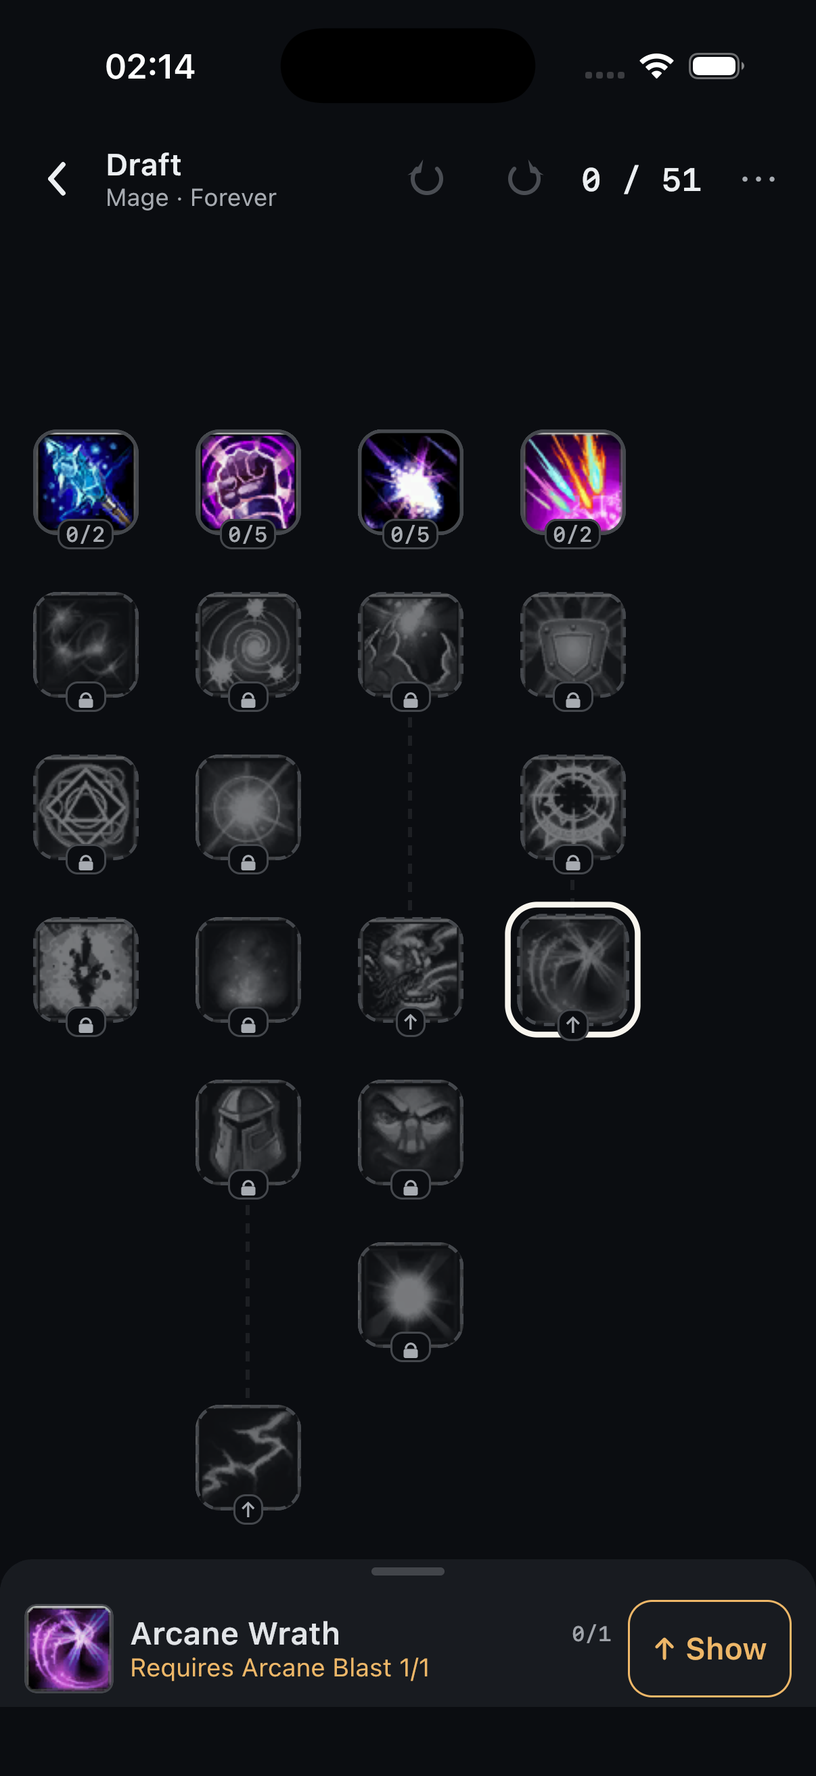
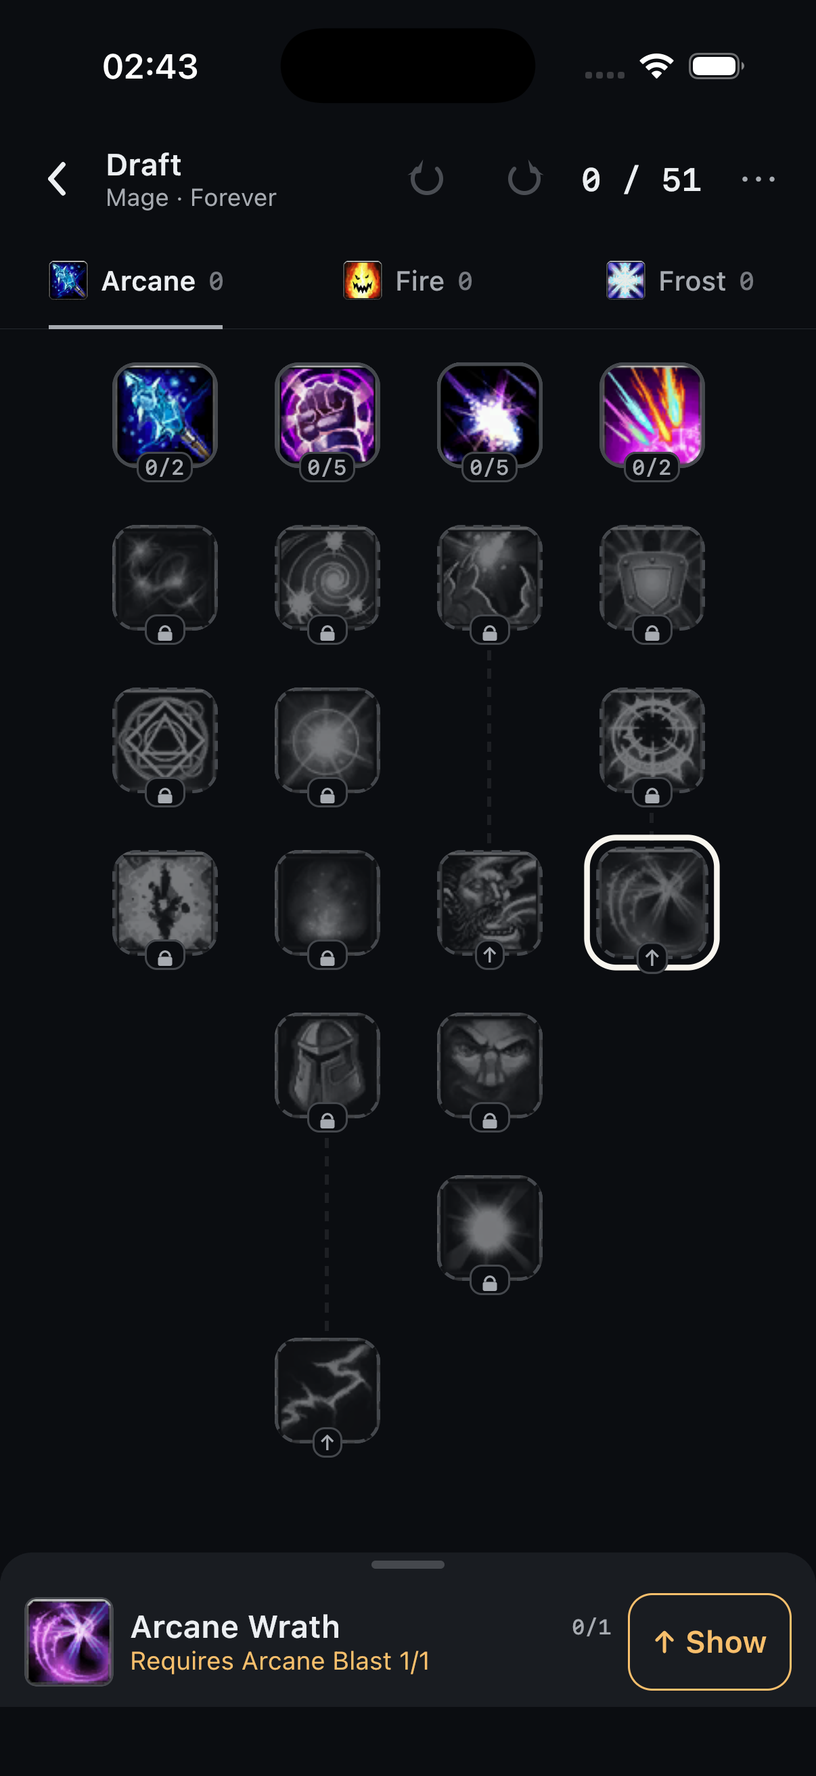
docs: Arcane Wrath in the Arcane tab (M5.DATA.4)
Rewrites the Mage anomaly: cause in the client rows, the layout rule and its
fail-closed edges, literal gates, why Wowhead's 15-point requirement is not
evidence, the old classic TalentTab/Talent tables, and new simulator
screenshots of the Arcane tab.

diff --git a/docs/forever-dataset.md b/docs/forever-dataset.md
@@ -267,11 +267,10 @@ python -m talent_data localization fetch|report|normalize|check --build 1.60.1.7
 python scripts/extract_fixtures.py --build 1.60.1.70450 --classes all   # + --tooltips, --localization ruRU
 ```
 
-* 9 classes, 469 nodes, **0 errors, 49 warnings**: the 12 investigated warnings of the
-  reference baseline (same codes, nodes and counts) plus **37 on Mage**
-  (`SECTIONS_UNRESOLVED` ×1, `OFF_GRID_NODE` ×36), all from one cause — investigated
-  [below](#the-mage-tree-has-no-derivable-tabs-sections_unresolved-160170425) and published
-  by owner decision. The manifest re-validates.
+* 9 classes, 469 nodes, **0 errors, 13 warnings**: the 12 investigated warnings of the
+  reference baseline (same codes, nodes and counts) plus **one on Mage**,
+  `SECTION_NOT_GATE_COUNTED` for Arcane Wrath — investigated
+  [below](#arcane-wrath-a-node-no-gate-counts-section_not_gate_counted-160170425). The manifest re-validates.
 * Real DB2, tooltip-table and enUS/ruRU fixtures of 70450 are committed
   (`tests/fixtures/{db2,tooltips,localization}/forever/1.60.1.70450/`);
   `tests/unit/test_product_build.py` regenerates the documents, icon sidecars, descriptions
@@ -286,7 +285,7 @@ python scripts/extract_fixtures.py --build 1.60.1.70450 --classes all   # + --to
 | Rogue | 1111 | 53 | 8 | 139 | 3 | 51 | 0 | 1 × INCOMPLETE_RANK_CURVE, 1 × UNRESOLVED_CONDITION |
 | Priest | 1114 | **53** | 8 | 153 | 3 | 51 | 0 | 1 × OFF_GRID_NODE, 1 × DUPLICATE_SPELL_IDENTITY |
 | Shaman | 1082 | 50 | 7 | 148 | 3 | 51 | 0 | — |
-| Mage | 1112 | **55** | **7** | **148** | **0** | 51 | 0 | **1 × SECTIONS_UNRESOLVED, 36 × OFF_GRID_NODE** |
+| Mage | 1112 | **55** | **7** | **148** | 3 | 51 | 0 | **1 × SECTION_NOT_GATE_COUNTED** |
 | Warlock | 1116 | 52 | 8 | **146** | 3 | 51 | 0 | 2 × OFF_GRID_NODE |
 | Druid | 1089 | 52 | 11 | 148 | 3 | 51 | 0 | — |
 
@@ -296,13 +295,12 @@ unchanged.
 ### What changed 70374 → 70450
 
 `artifacts/diff/forever-all-1.60.1.70374-1.60.1.70450.json` (+ one file per class):
-**1 added, 1 removed, 98 changed nodes** — 54 of the Mage changes are `sectionChanged`
-(every Mage node lost its section, see below).
+**1 added, 1 removed, 65 changed nodes**.
 
 * **Mage** (the Arcane layout):
-  * added: **Arcane Wrath** 113627 (max 1) at row 3, column 3 of the Arcane columns —
+  * added: **Arcane Wrath** 113627 (max 1) at row 3, column 3 of the Arcane tab —
     Missile Barrage's former cell — with a sufficient prerequisite on Arcane Blast and **no
-    points gate**;
+    points gate** ([below](#arcane-wrath-a-node-no-gate-counts-section_not_gate_counted-160170425));
   * **Missile Barrage** 105802 moved row 3 → row 0, lost its 15-point gate, max rank 1 → 2
     (20/40 % now resolved per rank); the 5/10/15-point Arcane gates count it (3 → 4, 7 → 8,
     10 → 11 nodes);
@@ -343,45 +341,48 @@ Improved Fade on 70374, Dark Inspiration on 70450). A saved build always opens o
 build and is never migrated (`test_a_previous_product_build_*`,
 `DatasetVersionCompatibilityTest`).
 
-### The Mage tree has no derivable tabs (SECTIONS_UNRESOLVED, 1.60.1.70425+)
+### Arcane Wrath: a node no gate counts (SECTION_NOT_GATE_COUNTED, 1.60.1.70425+)
 
 **Cause (client rows, `tests/fixtures/db2/forever/1.60.1.70450/mage/`).** The normalizer
-derives the three classic tabs from the node groups the tier gates count, and accepts them
-only if they partition the tree (§ *Known unresolved semantics*: tab names do not exist in
-client data either). Arcane Wrath 113627 has four `TraitNodeGroupXTraitNode` rows — groups
-12862, 12863, 12864, 12865 (`_Index` 2, 12, 12, 12) — and **each of these groups has no other
-member and no condition**: no `TraitCond`, `TraitNodeGroupXTraitCond` or
+derives the three classic tabs from the node groups the tier gates count (tab names do not
+exist in the trait tables). Arcane Wrath 113627 has four `TraitNodeGroupXTraitNode` rows —
+groups 12862, 12863, 12864, 12865 (`_Index` 2, 12, 12, 12) — and **each of these groups has
+no other member and no condition**: no `TraitCond`, `TraitNodeGroupXTraitCond` or
 `TraitNodeXTraitCond` row refers to them or to the node. Every other Mage node keeps its
-70374 memberships (`TraitCond` and `TraitNodeGroupXTraitCond` are byte-identical to 70374's).
-So the three maximal gate groups (18 Arcane, 17 Fire, 19 Frost nodes) are disjoint and cover
-every node **except** Arcane Wrath; the partition fails and `sections` stays empty, as the
-contract allows. A row-3 peer such as Arcane Meditation 105803 is in four groups too — its
-row group 11586 and the cumulative 30/25/20-point groups 11582/12730/12731, `_Index`
-3/13/13/13 — the same shape as Arcane Wrath's rows, but with the shared group ids.
+70374 memberships (`TraitCond` and `TraitNodeGroupXTraitCond` are byte-identical to 70374's),
+so the three maximal gate groups (18 Arcane, 17 Fire, 19 Frost nodes) are disjoint and cover
+every node except Arcane Wrath. A row-3 peer such as Arcane Meditation 105803 is in four
+groups too — its row group 11586 and the cumulative 30/25/20-point groups
+11582/12730/12731, `_Index` 3/13/13/13 — the same shape as Arcane Wrath's rows, but with the
+shared group ids. Whether Arcane Wrath's rows are an authoring slip or intended cannot be
+decided from DB2 rows, and no 70425/70450 client was observed.
 
-**Consequences, all mechanical and pinned by tests.**
+**Tab: by its column (owner decision, 2026-10-17).** Arcane Wrath stands in the Arcane
+columns (x = 2820; the Arcane group spans x 1020…2820, Fire 5020…6820, Frost 9080…10880), the
+panel the client draws it in, and Wowhead's Forever calculator — datamined from the same
+tables (spell 1326079, definition 145958) — lists it in the Arcane tree. The normalizer
+therefore resolves tabs as before and then places **a node that no gate counts** in the
+**one** tab whose column range contains its raw x
+(`normalization.normalizer._resolve_sections`). The rule is fail-closed: an x inside no
+tab's range or inside more than one leaves the tree without sections
+(`SECTIONS_UNRESOLVED`), and nothing else (prerequisites, names) is consulted. It changes no
+earlier build (every node of 70009…70374 is counted by a gate; their documents regenerate
+byte for byte). The validator flags every such node as **`SECTION_NOT_GATE_COUNTED`** — a
+new, investigated warning code — so the placement is never mistaken for a gate fact.
 
-* `SECTIONS_UNRESOLVED` ×1 and no node has a `sectionIndex`.
-* `OFF_GRID_NODE` ×36: without tabs the grid is fitted over the whole tree instead of per
-  tab, so the 18 Arcane nodes and Arcane Wrath sit 260 units left of it and the 17 Fire
-  nodes 140 units right; the 19 Frost nodes land on it. Raw `x`/`y` stay authoritative.
-* The diff reports `sectionsChanged` 3 → 0 and `sectionChanged` on all 54 kept nodes.
-* Literal allocation semantics: Arcane Wrath has no unlock requirement (only its sufficient
-  prerequisite Arcane Blast, itself behind the 10-point Arcane gate), and its point counts
-  toward no Arcane gate. The engines implement exactly that; no rule was added for it.
-* The app shows the 70450 Mage tree on **one whole-tree canvas** — the existing fail-safe
-  `Unsectioned(NoSections)` path of `buildTalentTreeSections`: no tabs, no specialization
-  names, every node and connector on the canvas, no hit-target overlap at any zoom
-  (`TalentTreeSectionsTest`). Every other class and every older Mage tree keeps its tabs.
+**Gates stay literal.** Arcane Wrath has no unlock requirement (only its sufficient
+prerequisite Arcane Blast, itself behind the 10-point Arcane gate), and its point counts
+toward no Arcane gate; the engines read exactly that. Wowhead shows a 15-point requirement
+for it, but Wowhead's `requiredPoints` equals row × 5 for all 466 nodes it lists — the
+classic convention, not the client's condition rows (every other node agrees with the
+client gates) — so it is no evidence for a gate, and none is added. One visible consequence
+in the app: the Arcane tab's point counter sums the tab's nodes, so after taking Arcane Wrath
+it is one point above what the Arcane gates count.
 
-**What is not established.** Whether this is an authoring slip (the four rows look like
-memberships that were meant to point at the shared groups) or intended (an ungated talent
-outside the tab totals) cannot be decided from DB2 rows, and no 70425/70450 client was
-observed. The pipeline does not guess a section by geometry or flatten the rows into a gate.
-**Owner decision (2026-10-17):** publish 70450 as the client data stands. If a later build
-puts 113627 into the gate groups, the tabs return through the unchanged pipeline (and this
-expected warning set changes, failing `test_warnings_are_exactly_the_investigated_set` until
-it is reviewed).
+**Old classic tables.** The Forever client still ships `TalentTab` (Arcane 81 / Fire 41 /
+Frost 61, with names) and `Talent` (432 rows), but `Talent` is the classic layout: it covers
+351 of the 469 70450 nodes, none of the Forever-new talents, and places some kept ones
+differently, so it is no evidence for Arcane Wrath's tab either.
 
 ### Allocation compatibility
 
@@ -945,9 +946,9 @@ python scripts/extract_fixtures.py --build 1.60.1.70338 --classes all   # + --to
   the source proves the per-group/node/entry cost tables absent (present or unknown fails
   closed); still no cost field in schema v1.
 * Tab names (Arms/Fury/Protection…) do not exist in client data; `section.name` is null.
-  Since 1.60.1.70425 the Mage tree has no derivable tabs at all (Arcane Wrath is in no gate
-  group — [above](#the-mage-tree-has-no-derivable-tabs-sections_unresolved-160170425));
-  `sections` stays empty rather than guessed.
+  Since 1.60.1.70425 one node, Mage Arcane Wrath, is in no gate group; it joins the tab whose
+  columns contain it, flagged `SECTION_NOT_GATE_COUNTED`
+  ([above](#arcane-wrath-a-node-no-gate-counts-section_not_gate_counted-160170425)).
 * Tooltips stay raw templates in `talent-data.v1`; per-rank numbers exist for curve-backed
   effects only. Rendered descriptions (M5.V2) live in the `talent-tooltips.v1` sidecar.
 * Whether the mis-placed duplicate nodes (Hunter/Priest) are drawn by the client is

diff --git a/docs/mobile-architecture.md b/docs/mobile-architecture.md
@@ -334,15 +334,15 @@ entry is gone; the baseline Warrior loader remains as the tests' fixture.
     `TalentTreeSectionsResult.Unsectioned` reason: the screen then shows the
     whole tree on one canvas without tabs — nothing hidden or re-assigned.
     A tree that publishes no sections at all is `Unsectioned(NoSections)`;
-    the one real case is the Mage tree of the product dataset 1.60.1.70450
-    (M5.DATA.4: Arcane Wrath belongs to no gate group, so no tabs are
-    derivable — [forever-dataset.md](forever-dataset.md#the-mage-tree-has-no-derivable-tabs-sections_unresolved-160170425)),
-    which therefore opens on one whole-tree canvas with no tabs and no
-    specialization names; every other tree keeps its tabs
-    (`TalentTreeSectionsTest`, `TalentTreeSectionTabsUiTest`).
+    no bundled tree does. (M5.DATA.4: on 1.60.1.70450 the Mage talent
+    Arcane Wrath is counted by no gate; the dataset places it in the Arcane
+    tab by its column — [forever-dataset.md](forever-dataset.md#arcane-wrath-a-node-no-gate-counts-section_not_gate_counted-160170425) —
+    and `TalentTreeSectionsTest` / `TalentTreeSectionTabsUiTest` pin it
+    there.)
     `sectionSpentPoints` counts each tab's points with the allocation rules'
-    own `AllocationRules.pointsSpent` (the tier-gate count); for any valid
-    build the tabs add up to the header counter;
+    own `AllocationRules.pointsSpent` (the tier-gate count — except that a
+    rank in 70450's Arcane Wrath, which no gate counts, is in the Arcane tab's
+    total too); for any valid build the tabs add up to the header counter;
   - `TalentTreeSectionTabs` — one tab per section (first-talent icon, label,
     points; icons hidden under 360 dp or above 115 % font scale), equal
     widths while each keeps 72 dp, otherwise a scrolling row; one tap
@@ -1358,7 +1358,7 @@ descriptions of each, every one from its own client build:
 
 | Constant (`ui/library/BundledDatasets.kt`) | Client build | Role |
 | --- | --- | --- |
-| `PRODUCT_BUNDLE` | `1.60.1.70450` | The **product dataset** (M5.DATA.4): New Build lists its classes from this manifest and creates every new draft on it. Selected as the newest Forever build wago.tools listed on 2026-10-17 with `is_bgdl` explicitly `false` ([forever-dataset.md](forever-dataset.md#product-dataset-160170450-m5data4)) — not a claim that it is the build the live realms run. Its Mage tree publishes no sections and opens on one whole-tree canvas (see *M5.UX.1 section tabs*). |
+| `PRODUCT_BUNDLE` | `1.60.1.70450` | The **product dataset** (M5.DATA.4): New Build lists its classes from this manifest and creates every new draft on it. Selected as the newest Forever build wago.tools listed on 2026-10-17 with `is_bgdl` explicitly `false` ([forever-dataset.md](forever-dataset.md#product-dataset-160170450-m5data4)) — not a claim that it is the build the live realms run. Its Mage talent Arcane Wrath is counted by no gate and shown in the Arcane tab by its column (see *M5.UX.1 section tabs*). |
 | — | `1.60.1.70374` | The product dataset of M5.DATA.3. Kept bundled, byte-for-byte unchanged, so that builds saved on it open on it; no app code names it (desktop tests do, as `PREVIOUS_PRODUCT_BUNDLE`) — a saved record carries its own client build. |
 | — | `1.60.1.70338` | The product dataset of M5.DATA.2 — the same talent rows, icons and descriptions as 70374, but its own dataset identity. Kept bundled, byte-for-byte unchanged, for the builds saved on it (desktop tests: `BUNDLE_70338`). |
 | — | `1.60.1.70245` | The product dataset of M5.DATA. Kept bundled, byte-for-byte unchanged, for the builds saved on it (desktop tests: `BUNDLE_70245`). |
@@ -1401,7 +1401,7 @@ design (each build ships the icons of its own client files).
 asset read recorded to prove which build answered): New Build lists 70450; new Druid and
 Warrior drafts are created and open on 70450 (the reworked Warrior tree: Gore Drinker, Iron
 Will, Furious Precision with their own icons and descriptions); a new Mage draft opens on
-70450's tree without sections (55 nodes, Arcane Wrath with its own icon); a 70009 Druid
+70450's tree with Arcane Wrath in the Arcane tab (55 nodes; its own icon); a 70009 Druid
 build with node 104951 (King of the Jungle) at 3/3 opens on 70009 unchanged and is invalid
 on the product dataset; a 70245 Warrior build with Toughness 5/5 opens on 70245 unchanged
 and is invalid on the product dataset; a 70245 Boundless Rage 3/3 build validates on the
@@ -1413,7 +1413,7 @@ builds resolve their own datasets; unbundled builds (70170, 70334, 70425) fail t
 read nothing else. `ProductDatasetContractTest` (shared JVM): the committed 70450
 documents, manifest, visuals and tooltips pass the strict readers and repository identity
 checks, the Kotlin engine supports them exactly like 70009 (only Rogue Venom unresolved,
-the sectionless Mage tree included), and 70374's sidecars placed under 70450 fail with a
+Mage's Arcane Wrath included), and 70374's sidecars placed under 70450 fail with a
 typed `BuildMismatch`.
 `BundledBaselineTest` loads every bundle through the real Compose resource pipeline.
 

diff --git a/README.md b/README.md
@@ -29,8 +29,8 @@ python scripts/check_product_freshness.py     # JSON on stdout; exit 0 CURRENT, 
 python -m talent_data fetch --game forever --build 1.60.1.70450
 python -m talent_data normalize --game forever --build 1.60.1.70450 --class all
 python -m talent_data diff --game forever --class all --from 1.60.1.70374 --to 1.60.1.70450
-# -> 9 classes, 0 errors, 49 warnings (the 12 investigated ones + 37 on Mage, whose tree
-#    publishes no sections); 1 added / 1 removed / 98 changed
+# -> 9 classes, 0 errors, 13 warnings (the 12 investigated ones + SECTION_NOT_GATE_COUNTED
+#    for Mage Arcane Wrath); 1 added / 1 removed / 65 changed
 #    (the same commands with 1.60.1.70374 / --from 1.60.1.70338 reproduce M5.DATA.3's)
 
 # Reproduce the verified reference baseline
@@ -55,8 +55,8 @@ baseline**: the live allocation evidence and the M2 conformance vectors are pinn
 and builds saved on it keep opening on it. Each is committed with its own icons and
 descriptions and bundled in the app. None is a claim about the build the live realms run
 (wago.tools cannot say); `scripts/check_product_freshness.py` reports whether a newer
-publishable build exists. Selection evidence, the 70374 → 70450 diff, the Mage tree that
-publishes no sections, and the validity limits:
+publishable build exists. Selection evidence, the 70374 → 70450 diff, the Mage talent
+Arcane Wrath that no gate counts, and the validity limits:
 [docs/forever-dataset.md](docs/forever-dataset.md#product-dataset-160170450-m5data4).
 Commands below that name `1.60.1.70009` reproduce or check the reference baseline; the
 same commands with `1.60.1.70450` do it for the product dataset.
@@ -215,8 +215,7 @@ rank, CURRENT / NEXT RANK, rank 1 as the prospective effect) from a strict
 [docs/mobile-architecture.md](docs/mobile-architecture.md#talent-descriptions-m5v2).
 **M5.DATA / M5.DATA.2 / M5.DATA.3 / M5.DATA.4** bundle the product dataset 1.60.1.70450
 next to the unchanged 1.60.1.70374, 1.60.1.70338 and 1.60.1.70245 (earlier product
-datasets) and 1.60.1.70009 (reference baseline): New Build creates drafts on 70450 (its
-Mage tree, which publishes no sections, opens on one whole-tree canvas without tabs), every
+datasets) and 1.60.1.70009 (reference baseline): New Build creates drafts on 70450, every
 saved build opens on its own recorded build (no migration, even where two builds carry
 identical talent rows), an unbundled build fails with a typed error — see
 [docs/mobile-architecture.md](docs/mobile-architecture.md#bundled-datasets-product-and-reference-m5data).

diff --git a/docs/release/data4-evidence/README.md b/docs/release/data4-evidence/README.md
@@ -20,9 +20,9 @@ the live realms run. The RC.3 re-check within 24 h of the tag is still required.
 
 | Check | Result |
 | --- | --- |
-| `ruff check .` / `ruff format --check .` | PASS / 207 files formatted |
+| `ruff check .` / `ruff format --check .` | PASS / PASS |
 | `mypy` | PASS (72 source files) |
-| `pytest` | 1183 passed, 11 deselected |
+| `pytest` | 1185 passed, 11 deselected |
 | `pytest -m integration` (live wago.tools) | 11 passed |
 | `manifest --expect-complete`, `visuals check`, `tooltips check`, `localization check` × 5 bundled builds | all PASS |
 | `allocation replay --build 1.60.1.70009 --all` | 53/53 |
@@ -37,7 +37,7 @@ the live realms run. The RC.3 re-check within 24 h of the tag is still required.
 | `:composeApp:linkDebugFrameworkIosSimulatorArm64` | PASS |
 | `iosApp` simulator `xcodebuild` (Debug, `CODE_SIGNING_ALLOWED=NO`) | BUILD SUCCEEDED |
 | `:composeApp:assembleDebug` / `:composeApp:assembleRelease` | PASS / PASS (release unsigned; signing unchanged) |
-| `:composeApp:lintRelease` | PASS: 0 errors, 9 warnings — the same 9 pre-existing warnings as M5.RC.2b |
+| `:composeApp:lintRelease` (analysis rerun) | PASS: 0 errors, 9 warnings — the same 9 pre-existing warnings as M5.RC.2b |
 
 ## iOS simulator (iPhone 17 Pro, iOS 26.4)
 
@@ -48,8 +48,8 @@ Debug build of the M5.DATA.4 branch, installed over the existing app — its sav
 | [01](ios-simulator/01-home-existing-builds.png) | the four builds saved before the refresh, listed with their points |
 | [02](ios-simulator/02-saved-paladin-51-opens.png) | a saved Paladin 51/51 build opens unchanged (Holy 15 / Protection 5 / Retribution 31) |
 | [03](ios-simulator/03-new-build-nine-classes.png) | New Build lists all nine classes of the product manifest ("talent data 1.60.1") |
-| [04](ios-simulator/04-mage-70450-one-canvas.png) | a new Mage build on 70450: one whole-tree canvas, no tabs (Missile Barrage now in row 0) |
-| [05](ios-simulator/05-arcane-wrath-inspector.png) | Arcane Wrath selected: 0/1, "Requires Arcane Blast 1/1", **Show** |
+| [04](ios-simulator/04-mage-70450-arcane-tab.png) | a Mage build on 70450: Arcane / Fire / Frost tabs; Arcane Wrath in the Arcane tab (row 3, column 3), Missile Barrage now in row 0 |
+| [05](ios-simulator/05-arcane-wrath-inspector.png) | Arcane Wrath selected: 0/1, "Requires Arcane Blast 1/1" (no points gate, as in the client rows), **Show** |
 
 Not checked by hand: a physical device, and Russian on the device (the RU text paths are
 covered by the localization repository and UI tests).

diff --git a/docs/release/rc1-defects.md b/docs/release/rc1-defects.md
@@ -172,14 +172,15 @@ The device-level checks behind that statement ran on an Android emulator only (s
 **M5.DATA.4 resolution (2026-10-17).**
 - Freshness before the refresh: **OUTDATED** at 2026-10-17T18:40:34Z — by then `1.60.1.70450`
   (`wow_classic_beta`, created 2026-10-16 22:29:05, `isBgdl=false`) had superseded `70425`.
-- `70450` was normalized, diffed against `70374` (1 added, 1 removed, 98 changed nodes in
+- `70450` was normalized, diffed against `70374` (1 added, 1 removed, 65 changed nodes in
   eight classes; Rogue unchanged), published with icons, descriptions and all nine ruRU
   overlays, and bundled. `PRODUCT_BUNDLE` = `1.60.1.70450`; `1.60.1.70009`, `70245`, `70338`
   and `70374` stay bundled and unchanged, and saved builds keep opening on their own build.
   `70425` carries the same talent data as `70450` and is not committed.
-- One investigated anomaly, published by owner decision: the 70450 Mage tree has no talent
-  tabs (new node Arcane Wrath belongs to no gate group); the app shows it on one whole-tree
-  canvas. Details: [forever-dataset.md](../forever-dataset.md#the-mage-tree-has-no-derivable-tabs-sections_unresolved-160170425).
+- One investigated anomaly: the new Mage talent Arcane Wrath belongs to no gate group. By
+  owner decision it is shown in the Arcane tab by its column (new warning
+  `SECTION_NOT_GATE_COUNTED`), and its gates stay as the client rows say. Details:
+  [forever-dataset.md](../forever-dataset.md#arcane-wrath-a-node-no-gate-counts-section_not_gate_counted-160170425).
 - Freshness after integration: **CURRENT** at 2026-10-17T19:10:13Z (exit 0).
 - Limits unchanged: "publishable" is not "live"; the product stays `wow_classic_beta`; the
   `wowf` product still lists only `1.60.1.70245` and is not consulted.

diff --git a/docs/data-pipeline.md b/docs/data-pipeline.md
@@ -9,9 +9,10 @@ Committed builds have distinct roles (M5.DATA, M5.DATA.2, M5.DATA.3, M5.DATA.4):
 
 * `1.60.1.70450` is the **product dataset** — the newest Forever build wago.tools listed
   on 2026-10-17 with `is_bgdl` explicitly `false`; the mobile app creates new builds on it.
-  It went through the same unchanged pipeline (§9 commands with `--build 1.60.1.70450`); its
-  Mage tree publishes no sections (`SECTIONS_UNRESOLVED`, published as is by owner
-  decision — `docs/forever-dataset.md`).
+  It went through the same pipeline (§9 commands with `--build 1.60.1.70450`), extended by
+  one fail-closed tab rule: a node no gate counts (Mage Arcane Wrath) joins the tab whose
+  columns contain it, flagged `SECTION_NOT_GATE_COUNTED` (owner decision —
+  `docs/forever-dataset.md`).
 * `1.60.1.70374` (M5.DATA.3; talent rows equal to 70338's, yet its own dataset),
   `1.60.1.70338` (M5.DATA.2) and `1.60.1.70245` (M5.DATA), earlier product datasets, are
   kept unchanged for the builds saved on them.
@@ -364,7 +365,7 @@ ValidationIssue(
 
 Current warning codes: `OFF_GRID_NODE`, `DUPLICATE_SPELL_IDENTITY`,
 `SUFFICIENT_PREREQUISITE_CYCLE`, `INCOMPLETE_RANK_CURVE`, `UNRESOLVED_RANK_CURVE`,
-`SHARED_GRID_CELL`, `SECTIONS_UNRESOLVED` (plus `UNRESOLVED_CONDITION`, currently produced
+`SHARED_GRID_CELL`, `SECTIONS_UNRESOLVED`, `SECTION_NOT_GATE_COUNTED` (plus `UNRESOLVED_CONDITION`, currently produced
 by no real Forever data).
 
 ### 6c. Dataset manifest (M1)

diff --git a/docs/talent-allocation-semantics.md b/docs/talent-allocation-semantics.md
@@ -44,7 +44,7 @@ Venom is unsupported, and the invariants run on all nine 70374 classes
 EDGE-ACTIVE / EDGE-SUF remain hypotheses.
 
 **M5.DATA.4 product dataset 1.60.1.70450.** A real balance patch (1 node added, 1 removed,
-98 changed against 70374), yet its allocation inventory (§3) differs from 70374's only in
+65 changed against 70374), yet its allocation inventory (§3) differs from 70374's only in
 the Priest, Mage and Warlock rows, in counts: no new node type, entry type, node flag, edge
 type, condition shape, currency or cost link, and the number of conditions per tree is
 unchanged. The new Mage node Arcane Wrath 113627 has no points gate (only a Sufficient
